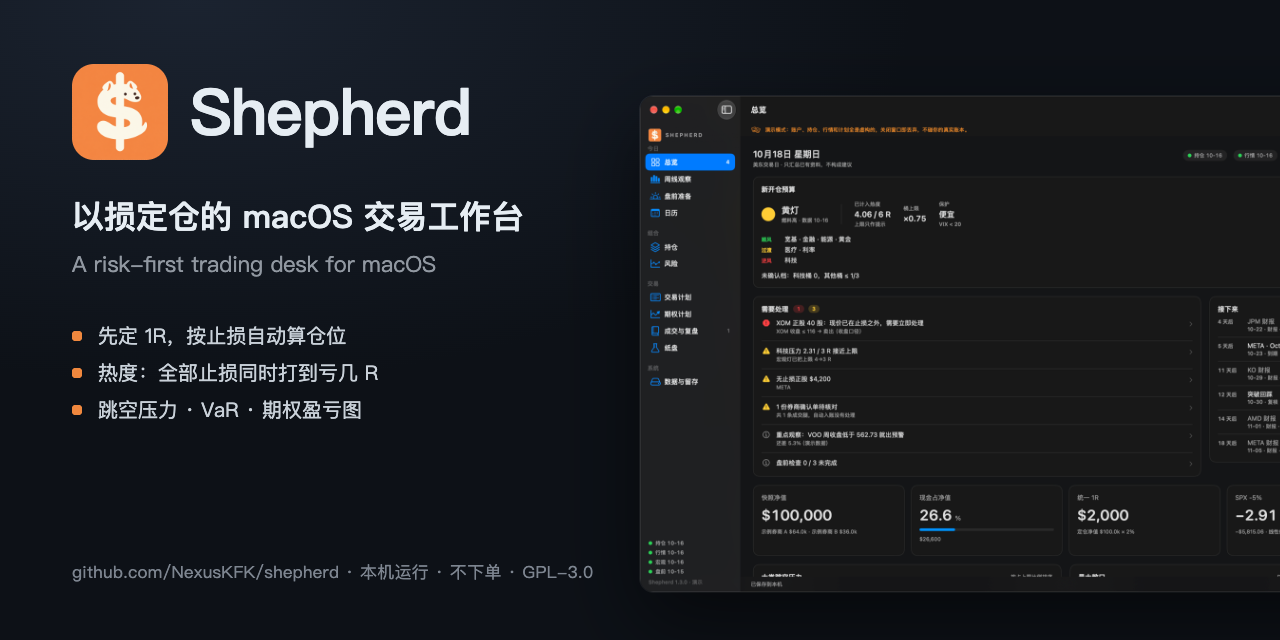
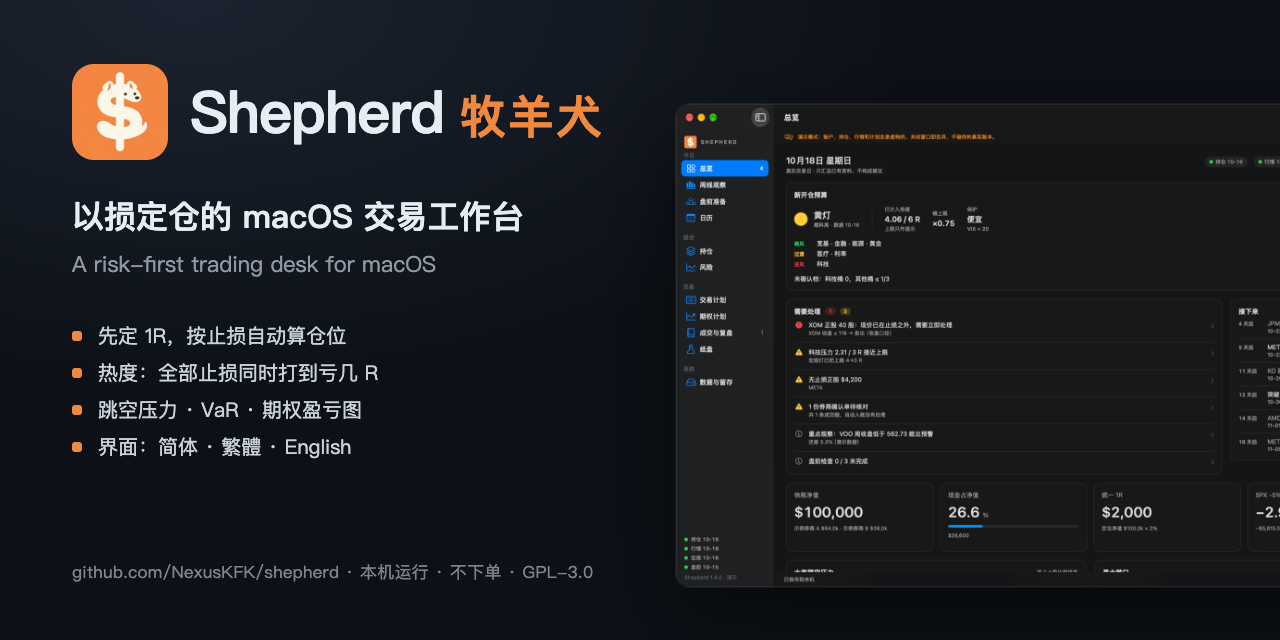
Chinese name 牧羊犬 (sheepdog) in the READMEs and social preview
Claude-Session: https://claude.ai/code/session_01K6CZ6MeZky1SYVY8CnBWjw

diff --git a/README.en.md b/README.en.md
@@ -9,7 +9,7 @@
   <a href="https://github.com/NexusKFK/shepherd/actions/workflows/ci.yml"><img alt="CI" src="https://github.com/NexusKFK/shepherd/actions/workflows/ci.yml/badge.svg"></a>
 </p>
 
-Shepherd is a native macOS app that does the arithmetic of position sizing before you trade. You decide how much one trade may lose (1R); Shepherd turns the distance to your stop into a share count, and afterwards keeps telling you how many R you would lose if every stop were hit at once ("heat").
+Shepherd is a native macOS app that does the arithmetic of position sizing before you trade. You decide how much one trade may lose (1R); Shepherd turns the distance to your stop into a share count, and afterwards keeps telling you how many R you would lose if every stop were hit at once ("heat"). Its Chinese name, 牧羊犬, means sheepdog: you choose where the flock goes, and it keeps the flock together and barks when one strays.
 
 It records, calculates and reminds. It never places orders, never logs in to a broker, gives no buy/sell advice and calls no AI model. Everything stays on your Mac. The interface is in English, Simplified Chinese and Traditional Chinese; it follows the system language and can be changed in Settings (⌘,).
 

diff --git a/README.md b/README.md
@@ -1,4 +1,4 @@
-# Shepherd · 以损定仓的交易工作台
+# Shepherd 牧羊犬 · 以损定仓的交易工作台
 
 简体中文 · [繁體中文](README.zh-TW.md) · [English](README.en.md)
 
@@ -10,6 +10,8 @@
 </p>
 
 Shepherd 是一个 macOS 本机 App。它帮你在开仓之前把风险算清楚：先定好每笔愿意亏的钱（1R），再按止损距离算出该买多少；开仓之后，随时告诉你"所有止损同时被打到，一共会亏多少 R"。
+
+名字取自牧羊犬：放牧的方向由你定，它负责看住羊群，有羊走散了就叫。
 
 它只记账、算数、提醒。它不下单，不登录券商，不给买卖建议，也不调用任何 AI 模型。所有记录都存在你自己的电脑上。
 

diff --git a/README.zh-TW.md b/README.zh-TW.md
@@ -1,4 +1,4 @@
-# Shepherd · 以損定倉的交易工作台
+# Shepherd 牧羊犬 · 以損定倉的交易工作台
 
 [简体中文](README.md) · 繁體中文 · [English](README.en.md)
 
@@ -10,6 +10,8 @@
 </p>
 
 Shepherd 是一個 macOS 本機 App。它幫你在開倉之前把風險算清楚：先定好每筆願意虧的錢（1R），再按停損距離算出該買多少；開倉之後，隨時告訴你"所有停損同時被打到，一共會虧多少 R"。
+
+名字取自牧羊犬：放牧的方向由你決定，它負責看住羊群，有羊走散了就叫。
 
 它只記帳、算數、提醒。它不下單，不登入券商，不給買賣建議，也不呼叫任何 AI 模型。所有記錄都存在你自己的電腦上。
 
